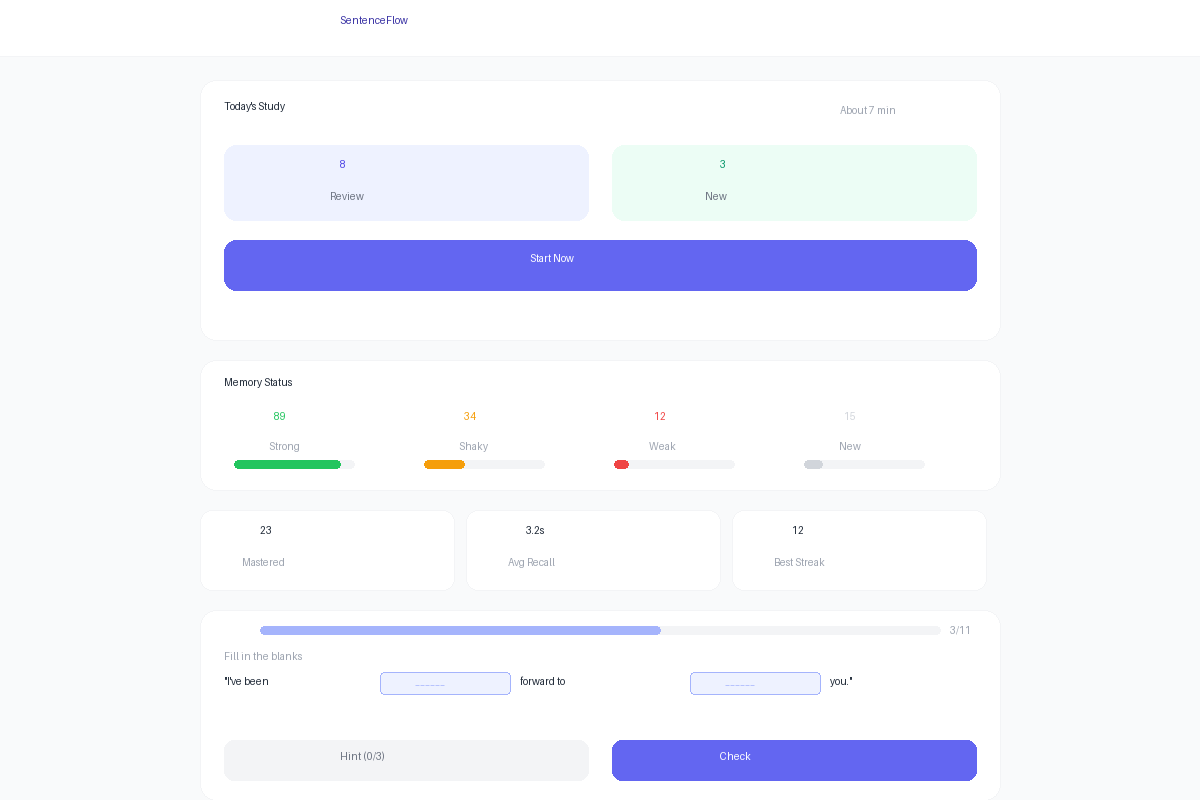
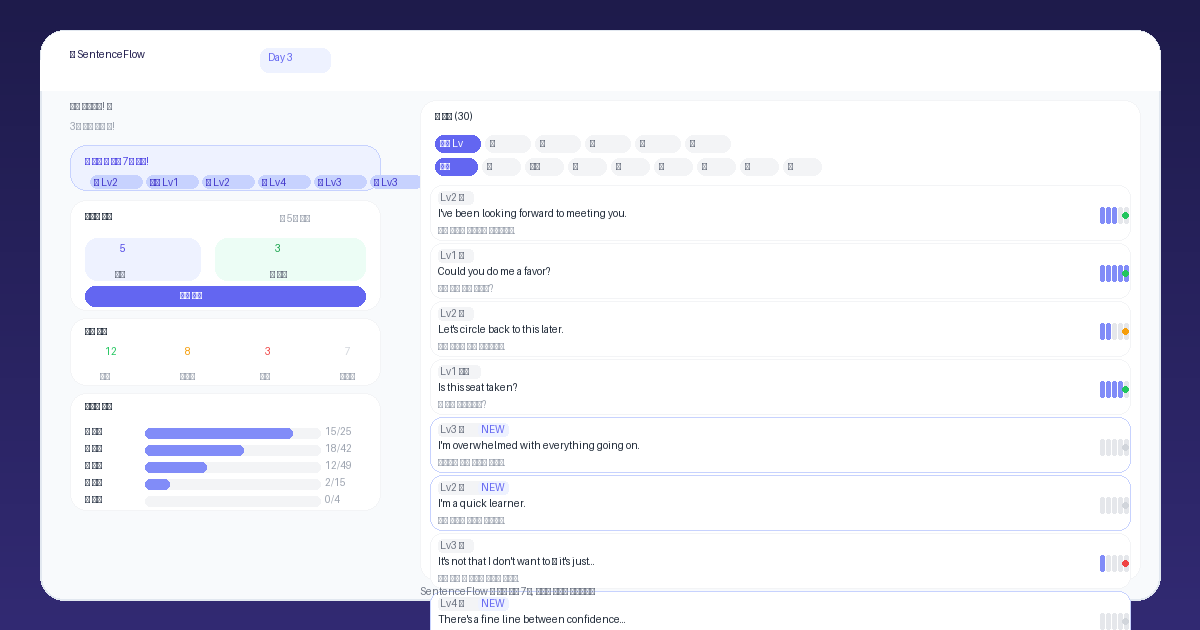
update: SentenceFlow portfolio - 135 sentences, 5 levels, 8 categories, daily unlock

diff --git a/src/content/projects/sentence-flow.md b/src/content/projects/sentence-flow.md
@@ -1,7 +1,7 @@
 ---
 title: SentenceFlow
-tagline: The pain every Korean English learner knows — you memorized it, but your mouth freezes. Science fixes this.
-description: English sentence memorization engine using Progressive Chunking Recall with SM-2 spaced repetition, 3-level hints, and memory strength dashboard.
+tagline: 135 sentences across 5 levels and 8 categories — 7 new ones unlock every morning at 7 AM.
+description: English sentence memorization engine with 5 CEFR-aligned levels, 8 real-life categories, Progressive Chunking Recall, SM-2 spaced repetition, daily 7AM unlock system, and memory strength dashboard.
 category: Web App
 stack: [React 18, Tailwind CSS, LocalStorage, SM-2 Algorithm, Web Speech API]
 github: https://github.com/Jason198341/sentence-flow
@@ -14,18 +14,20 @@ order: 22
 
 ## The Backstory
 
-Every Korean English learner knows the pain: you memorize a sentence, but when you need it in real life, your mouth freezes. Reading comprehension is fine — but production fails. I built SentenceFlow to attack this specific gap using four proven memory techniques combined into a single flow.
+Every Korean English learner knows the pain: you memorize a sentence, but when you need it in real life, your mouth freezes. Reading comprehension is fine — but production fails. I built SentenceFlow to attack this specific gap using Progressive Chunking Recall, spaced repetition, and a daily unlock system that keeps learners coming back every morning.
 
 ## Key Features
 
-- **Progressive Chunking Recall** — 4-step learning: full sentence exposure → chunk decomposition → progressive fill-in-the-blank → complete recall from memory
+- **135 Curated Sentences** — Organized across 5 CEFR-aligned levels (Foundation A1 to Mastering C2) and 8 real-life categories
+- **Daily 7AM Unlock** — 7 new sentences unlock every morning at 7:00 AM KST, with countdown timer and notification badge
+- **5 Levels** — Foundation, Building, Expanding, Refining, Mastering — mapped to CEFR A1 through C2
+- **8 Categories** — Office survival, Travel, Daily life, Emotions, Job interview, Parenting, SNS/Trends, Nuance
+- **Progressive Chunking Recall** — 4-step learning: full sentence exposure, chunk decomposition, fill-in-the-blank, complete recall from memory
 - **SM-2 Spaced Repetition** — Sentences you struggle with appear more often; mastered ones fade to monthly reviews
-- **3-Level Hint System** — First letter → chunk meanings → full answer. No penalty for using hints — just more practice
-- **Memory Strength Dashboard** — See all your sentences color-coded: strong (green), shaky (yellow), at-risk (red)
-- **Recall Speed Tracking** — Measures how fast you recall each sentence over time, visualizing fluency growth
-- **Micro-Teaching on Errors** — Grammar explanations and usage tips appear exactly when you make a mistake
-- **30 Curated Sentences** — Daily, Business, and Travel categories with native-level expressions
+- **3-Level Hint System** — First letter, chunk meanings, full answer. No penalty for hints — just more practice
+- **Memory Strength Dashboard** — Color-coded sentences: strong (green), shaky (yellow), at-risk (red), with level progress bars
+- **Level and Category Filters** — Browse and filter all unlocked sentences by difficulty level and topic category
 
 ## Technical Details
 
-Single HTML file architecture with React 18 via CDN and Tailwind CSS. The SM-2 spaced repetition algorithm manages review scheduling with ease factor adjustment. All progress data persists in localStorage. Web Speech API provides native TTS for sentence pronunciation. The learning engine implements adaptive difficulty — adjusting blank count and review frequency based on performance.
+Single HTML file architecture (84KB) with React 18 via CDN and Tailwind CSS. The SM-2 spaced repetition algorithm manages review scheduling with ease factor adjustment. Daily unlock logic calculates KST timezone offset to release 7 new sentences at 7:00 AM each morning — all client-side with no backend required. All progress data persists in localStorage. Web Speech API provides native TTS for pronunciation. The learning engine implements adaptive difficulty based on performance.
